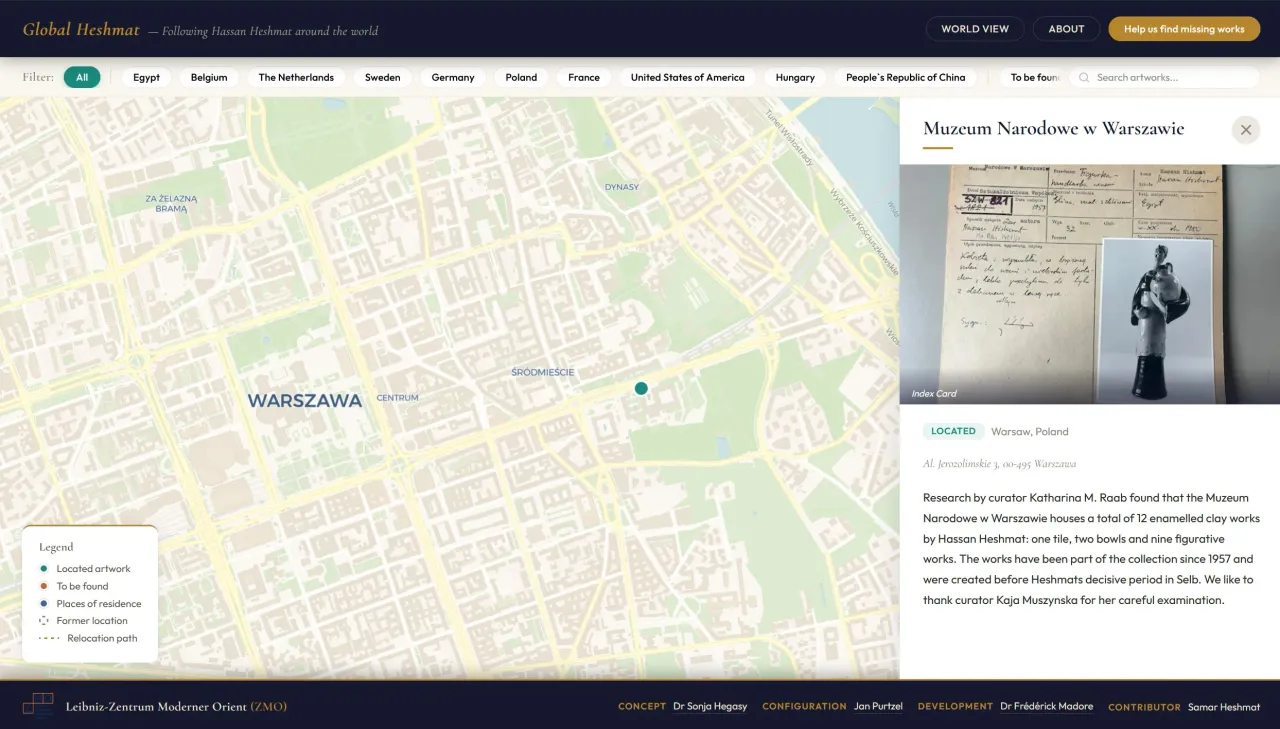
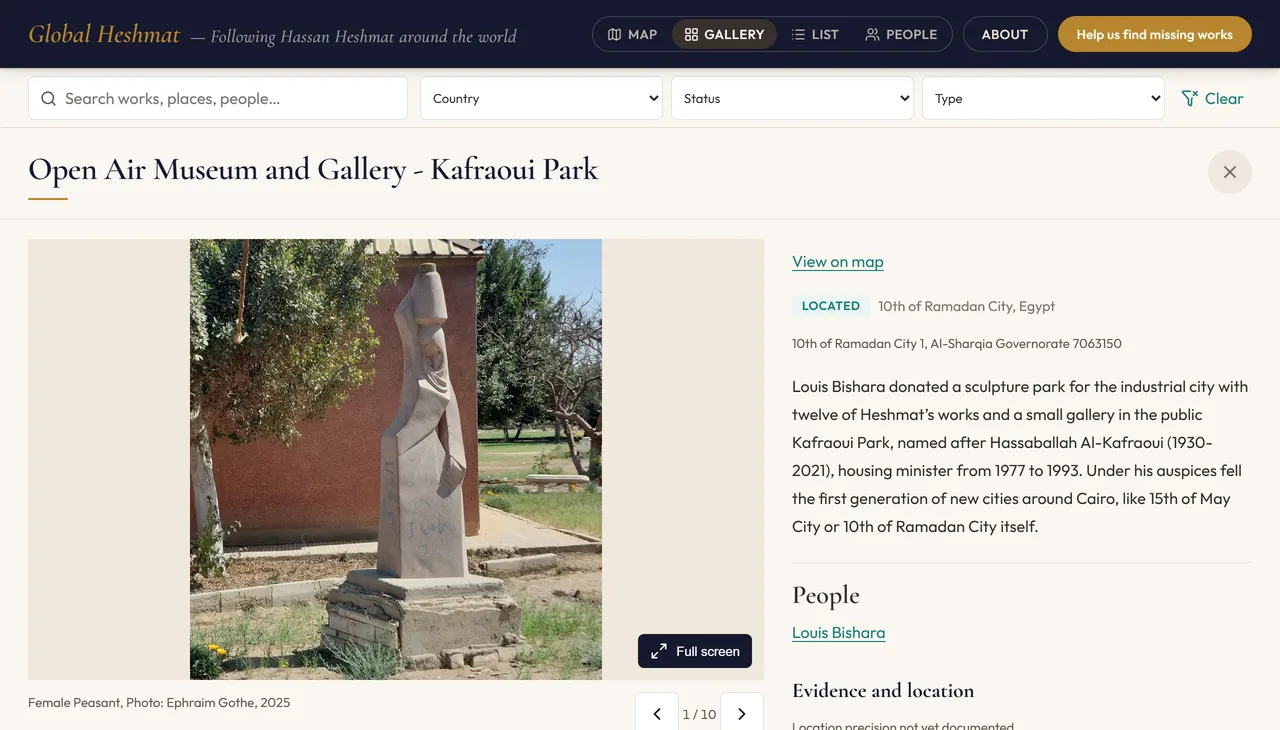
Copy edit the Global Heshmat page and refresh its screenshot
Bring the description up to the live site: 40 works and sites (26 located,
14 still to be found) across ten countries, Heshmat's places of residence
on the map, the collection browser with 156 photographs and a fieldbook,
and the 31 People profiles from Sonja Hegasy's research, including the
newly visible ties to Cairo's Armenian community. Recast the feature list
around what visitors can do and put the metadata line in plain language.

Replace the July map capture with the Kafraoui Park artwork page, update
the embed caption to the current counts and filters, and add
prosopography to the methods keywords.

diff --git a/src/lib/data/digital-humanities/global-heshmat.ts b/src/lib/data/digital-humanities/global-heshmat.ts
@@ -5,24 +5,23 @@ export const globalHeshmat: DigitalHumanitiesProject = {
 	title: 'Global Heshmat',
 	years: '2026',
 	shortDescription:
-		'An interactive map tracing the public artworks of the Egyptian sculptor Hassan Heshmat across ten countries, developed for the Leibniz-Zentrum Moderner Orient (ZMO). Built with SvelteKit and MapLibre GL JS.',
+		'An interactive map and archive following the public artworks of the Egyptian sculptor Hassan Heshmat across ten countries, and the people who shaped his career. Developed for the Leibniz-Zentrum Moderner Orient (ZMO).',
 	description: `
-		<p><a href="https://heshmat.zmo.de/" target="_blank" rel="noopener noreferrer">Global Heshmat</a> is an interactive map that follows the Egyptian sculptor <strong>Hassan Heshmat</strong> and his artworks in public spaces around the world. It is a team project of the <a href="https://www.zmo.de/en" target="_blank" rel="noopener noreferrer">Leibniz-Zentrum Moderner Orient (ZMO)</a> in Berlin; I developed the website.</p>
+		<p><a href="https://heshmat.zmo.de/" target="_blank" rel="noopener noreferrer">Global Heshmat</a> follows the Egyptian sculptor <strong>Hassan Heshmat</strong> (1920–2006) and his artworks in public spaces around the world. It is a team project of the <a href="https://www.zmo.de/en" target="_blank" rel="noopener noreferrer">Leibniz-Zentrum Moderner Orient (ZMO)</a> in Berlin; I developed the website.</p>
 
-		<p>Heshmat was an internationally celebrated artist committed to the idea of "Art for All" (<em>Kunst für alle</em>). After training as a sculptor in Cairo, he travelled to Selb in Bavaria on a DAAD scholarship in 1957 to study porcelain, a medium that let him cast affordable multiples for a wide public. His monuments, reliefs, and sculptures still stand in parks, museums, and squares across several countries, and in 2000 he received Egypt's State Appreciation Award.</p>
+		<p>Heshmat was an internationally celebrated artist committed to the idea of "Art for All" (<em>Kunst für alle</em>). After training as a sculptor in Cairo, he travelled to Selb in Bavaria on a DAAD scholarship in 1957 to study porcelain, a medium that let him cast affordable multiples for a wide public. His monuments, reliefs and sculptures still stand in parks, museums and squares across several countries, and in 2000 he received Egypt's State Appreciation Award.</p>
 
 		<h2>What you can explore</h2>
-		<p>The map brings together 28 located works, most of them in Egypt and others in Germany, Poland, Sweden, Belgium, and the Netherlands, alongside 11 more that are documented but not yet located. In all it spans ten countries, and a "to be found" filter turns the gaps into an open call: visitors who recognise a Heshmat work in a public space are invited to report it.</p>
+		<p>The site gathers 40 works and sites, most of them in Egypt and others across Europe, the United States and China. Twenty-six are located; the other 14 are documented but not yet found. A "to be found" filter turns those gaps into an open call: visitors who recognise a Heshmat work in a public space are invited to report it.</p>
 		<ul>
-			<li><strong>Map</strong>: a WebGL vector-tile basemap with marker clustering that expands on zoom</li>
-			<li><strong>Filter and search</strong>: filter by country or status, plus real-time search across artwork names, cities, and addresses</li>
-			<li><strong>Relocations</strong>: works that have moved are drawn with a dashed line to a "ghost" marker at their former site</li>
-			<li><strong>Detail panel</strong>: a multi-image gallery with a full-screen lightbox, metadata, source links, and embedded video</li>
-			<li><strong>Deep linking</strong>: the selected artwork is synced to the URL, so any view can be shared</li>
+			<li><strong>Map</strong>: the works clustered by place, alongside the homes he lived in, with a dashed line tracing any work that has moved from its former site</li>
+			<li><strong>Collection</strong>: 156 photographs, browsable as a gallery or a list, with a fieldbook for saving works and an export</li>
+			<li><strong>People</strong>: 31 profiles from Sonja Hegasy's research into the sponsors, curators, collectors and friends around Heshmat. Mapping them has already revealed a cluster that had gone unnoticed: his ties to the Armenian community in Cairo</li>
+			<li><strong>Detail pages</strong> with images, sources and video, each with its own web address for sharing</li>
 		</ul>
 
 		<h2>How it's built</h2>
-		<p>Global Heshmat is a static <a href="https://svelte.dev/" target="_blank" rel="noopener noreferrer">SvelteKit</a> site (Svelte 5 runes, TypeScript) with the map rendered by <a href="https://maplibre.org/" target="_blank" rel="noopener noreferrer">MapLibre GL JS</a> over vector tiles. Each artwork lives in its own typed data file that is auto-discovered at build time, so adding a new work is a one-file edit. Per-page Open Graph, Twitter Card, and Schema.org JSON-LD metadata support sharing and search. The interface is fully responsive, with keyboard navigation throughout.</p>
+		<p>Global Heshmat is a static <a href="https://svelte.dev/" target="_blank" rel="noopener noreferrer">SvelteKit</a> site (Svelte 5 runes, TypeScript) with the map rendered by <a href="https://maplibre.org/" target="_blank" rel="noopener noreferrer">MapLibre GL JS</a> over vector tiles. Each artwork and each person lives in its own typed data file that is discovered at build time, so adding a new entry is a one-file edit. Metadata on every page makes each work easy to share and to find in search engines, and the interface works on any screen size and from the keyboard.</p>
 
 		<h2>Credits</h2>
 		<p>Global Heshmat is a collaborative project of the Leibniz-Zentrum Moderner Orient (ZMO):</p>
@@ -48,6 +47,7 @@ export const globalHeshmat: DigitalHumanitiesProject = {
 		'MapLibre GL',
 		'WebGL',
 		'Interactive mapping',
+		'Prosopography',
 		'Data visualisation'
 	],
 	embeddableContent: [
@@ -57,7 +57,7 @@ export const globalHeshmat: DigitalHumanitiesProject = {
 			src: 'https://heshmat.zmo.de/',
 			title: 'The map',
 			description:
-				'<p>The 28 located works and the 11 still to be found. Filter by country or status, search by artwork, city or address, and select a marker for its images, metadata and sources.</p>',
+				'<p>The 26 located works, the 14 still to be found and the places Heshmat lived. Filter by country, status or type, search works, places and people, and select a marker for its images, metadata and sources.</p>',
 			showTitle: true,
 			variant: 'responsive'
 		}

diff --git a/src/lib/data/digital-humanities/summaries.generated.ts b/src/lib/data/digital-humanities/summaries.generated.ts
@@ -196,7 +196,7 @@ export const dhProjectSummaries: DigitalHumanitiesSummary[] = [
 		"id": "global-heshmat",
 		"title": "Global Heshmat",
 		"years": "2026",
-		"shortDescription": "An interactive map tracing the public artworks of the Egyptian sculptor Hassan Heshmat across ten countries, developed for the Leibniz-Zentrum Moderner Orient (ZMO). Built with SvelteKit and MapLibre GL JS.",
+		"shortDescription": "An interactive map and archive following the public artworks of the Egyptian sculptor Hassan Heshmat across ten countries, and the people who shaped his career. Developed for the Leibniz-Zentrum Moderner Orient (ZMO).",
 		"imageUrl": "/images/digital-humanities/global-heshmat.webp",
 		"order": 3,
 		"links": [
@@ -216,6 +216,7 @@ export const dhProjectSummaries: DigitalHumanitiesSummary[] = [
 			"MapLibre GL",
 			"WebGL",
 			"Interactive mapping",
+			"Prosopography",
 			"Data visualisation"
 		]
 	},

diff --git a/src/lib/data/imageVariants.generated.ts b/src/lib/data/imageVariants.generated.ts
@@ -168,7 +168,7 @@ export const imageVariantManifest: Readonly<Record<string, ImageVariantManifestE
 	'digital-humanities/burkina-faso-digital-exhibits.webp': [1200, 679],
 	'digital-humanities/dh-ai-african-studies.webp': [1280, 800],
 	'digital-humanities/genocide-at-the-security-council.webp': [1280, 655],
-	'digital-humanities/global-heshmat.webp': [1280, 729],
+	'digital-humanities/global-heshmat.webp': [1280, 730],
 	'digital-humanities/islam-burkinafaso-banner.webp': [1280, 533],
 	'digital-humanities/iwac-ai-pipelines.webp': [1280, 746],
 	'digital-humanities/iwac-bibliographic-data-wikidata.svg': [816, 816],
